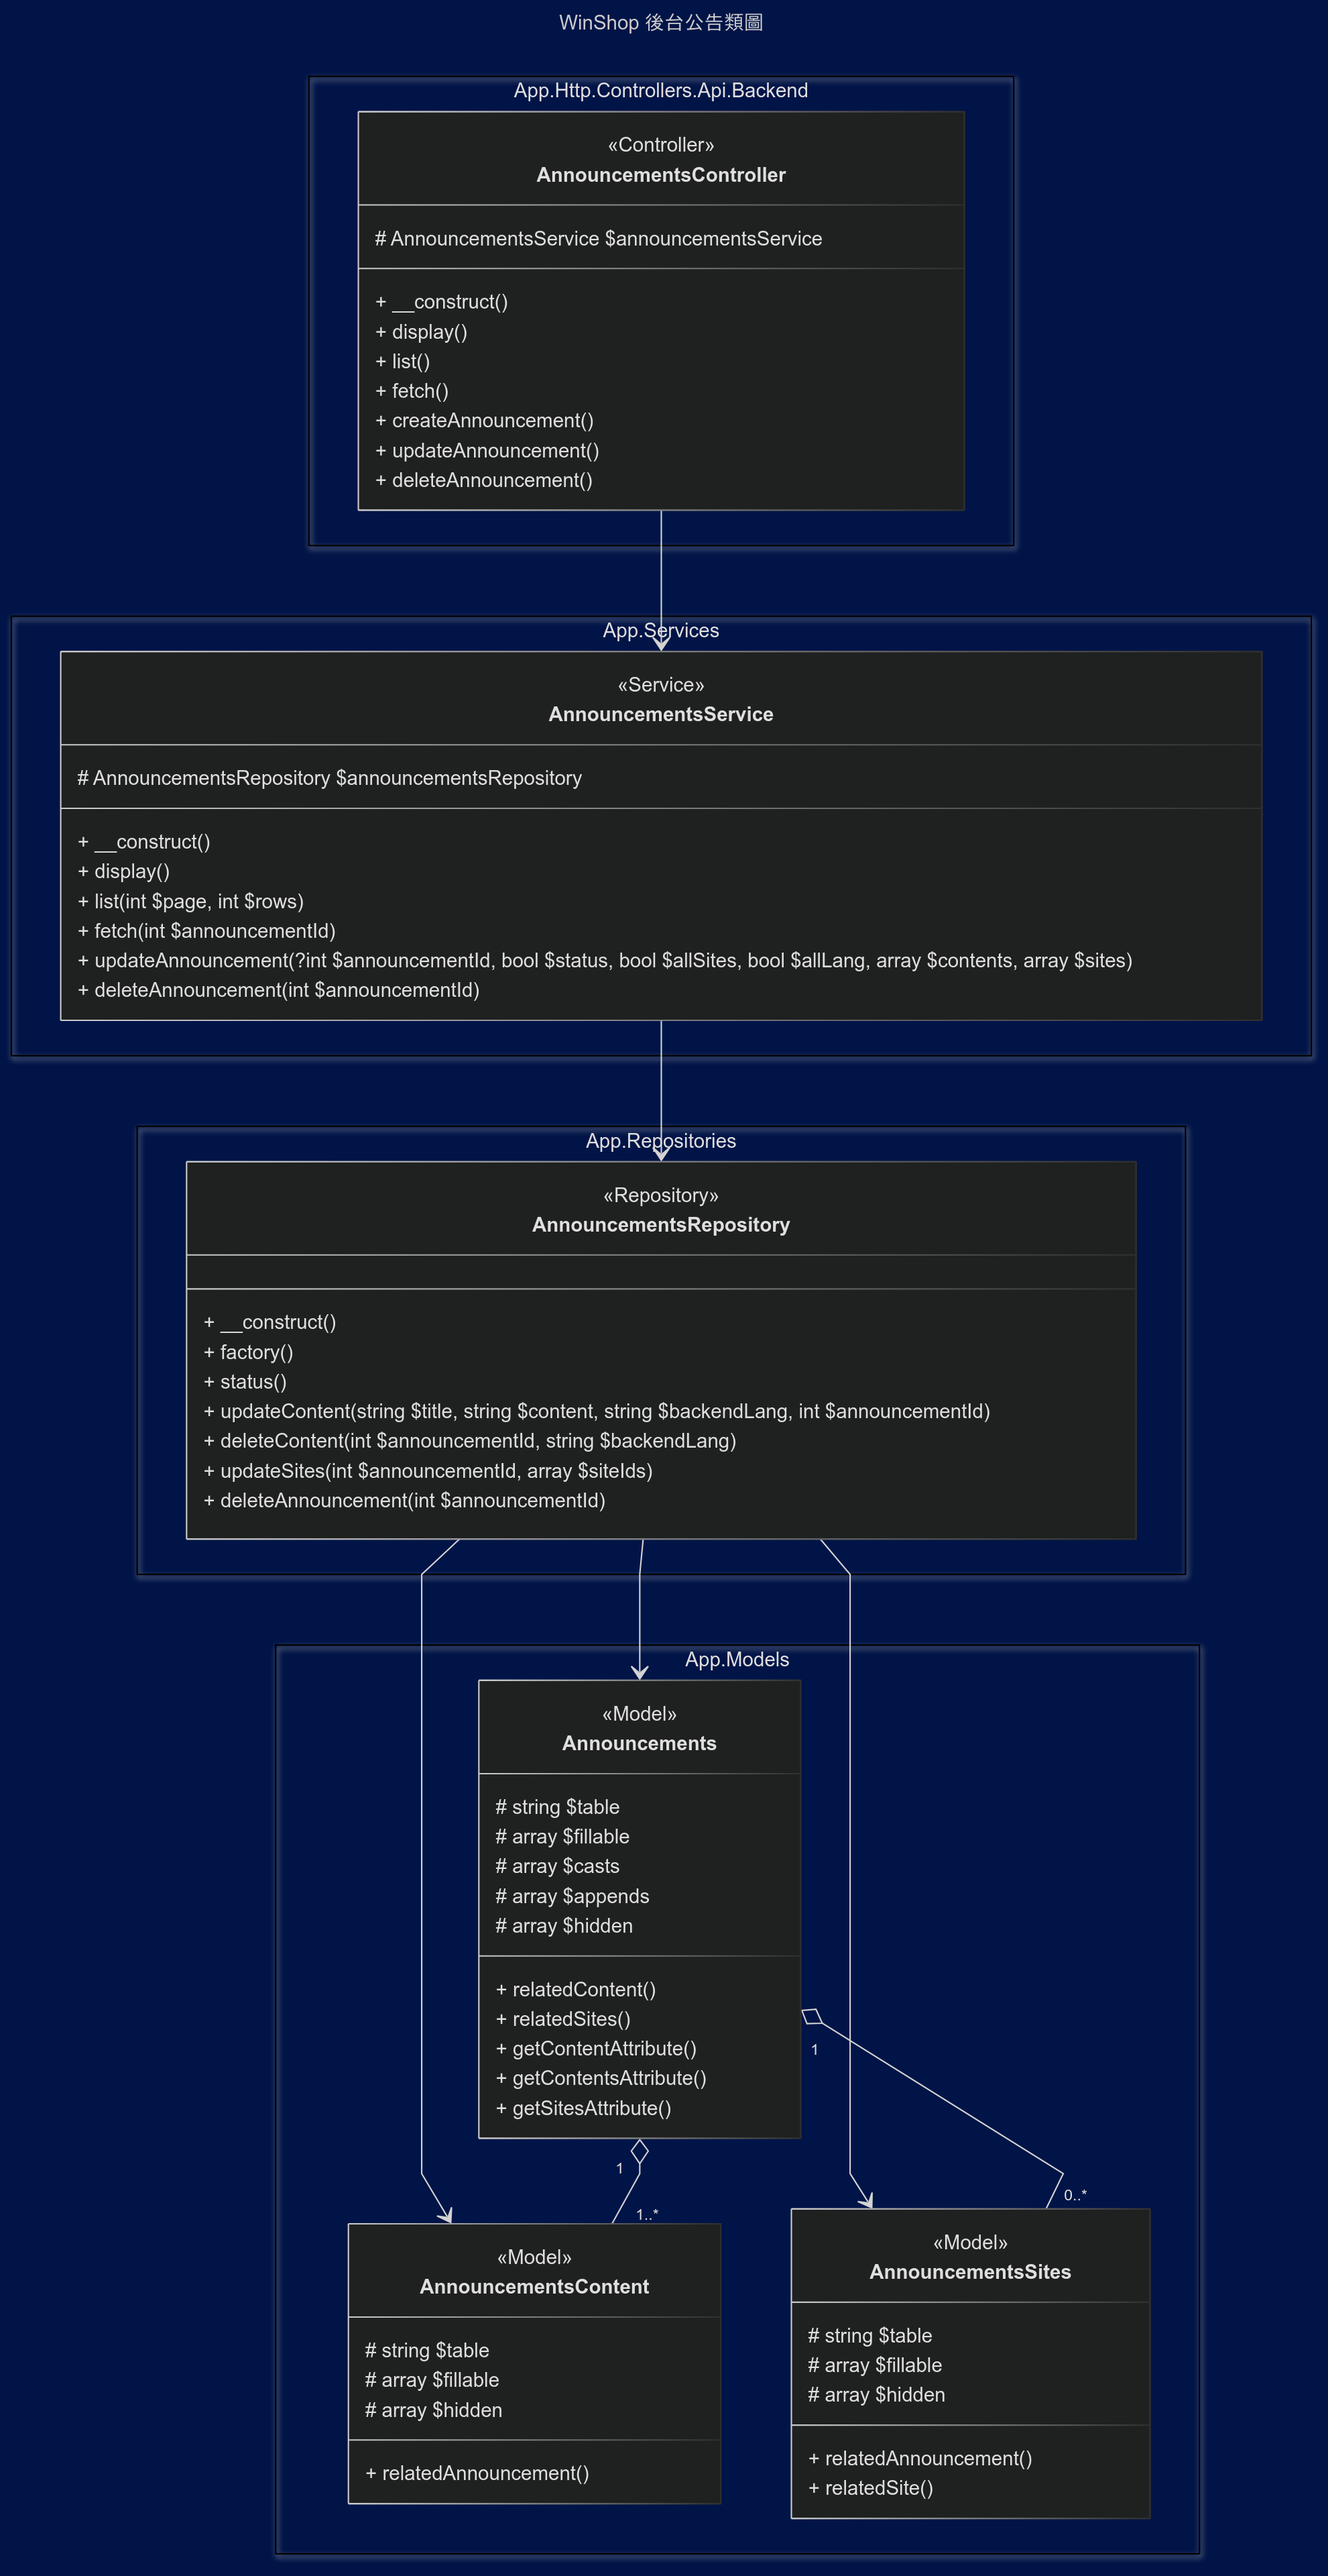
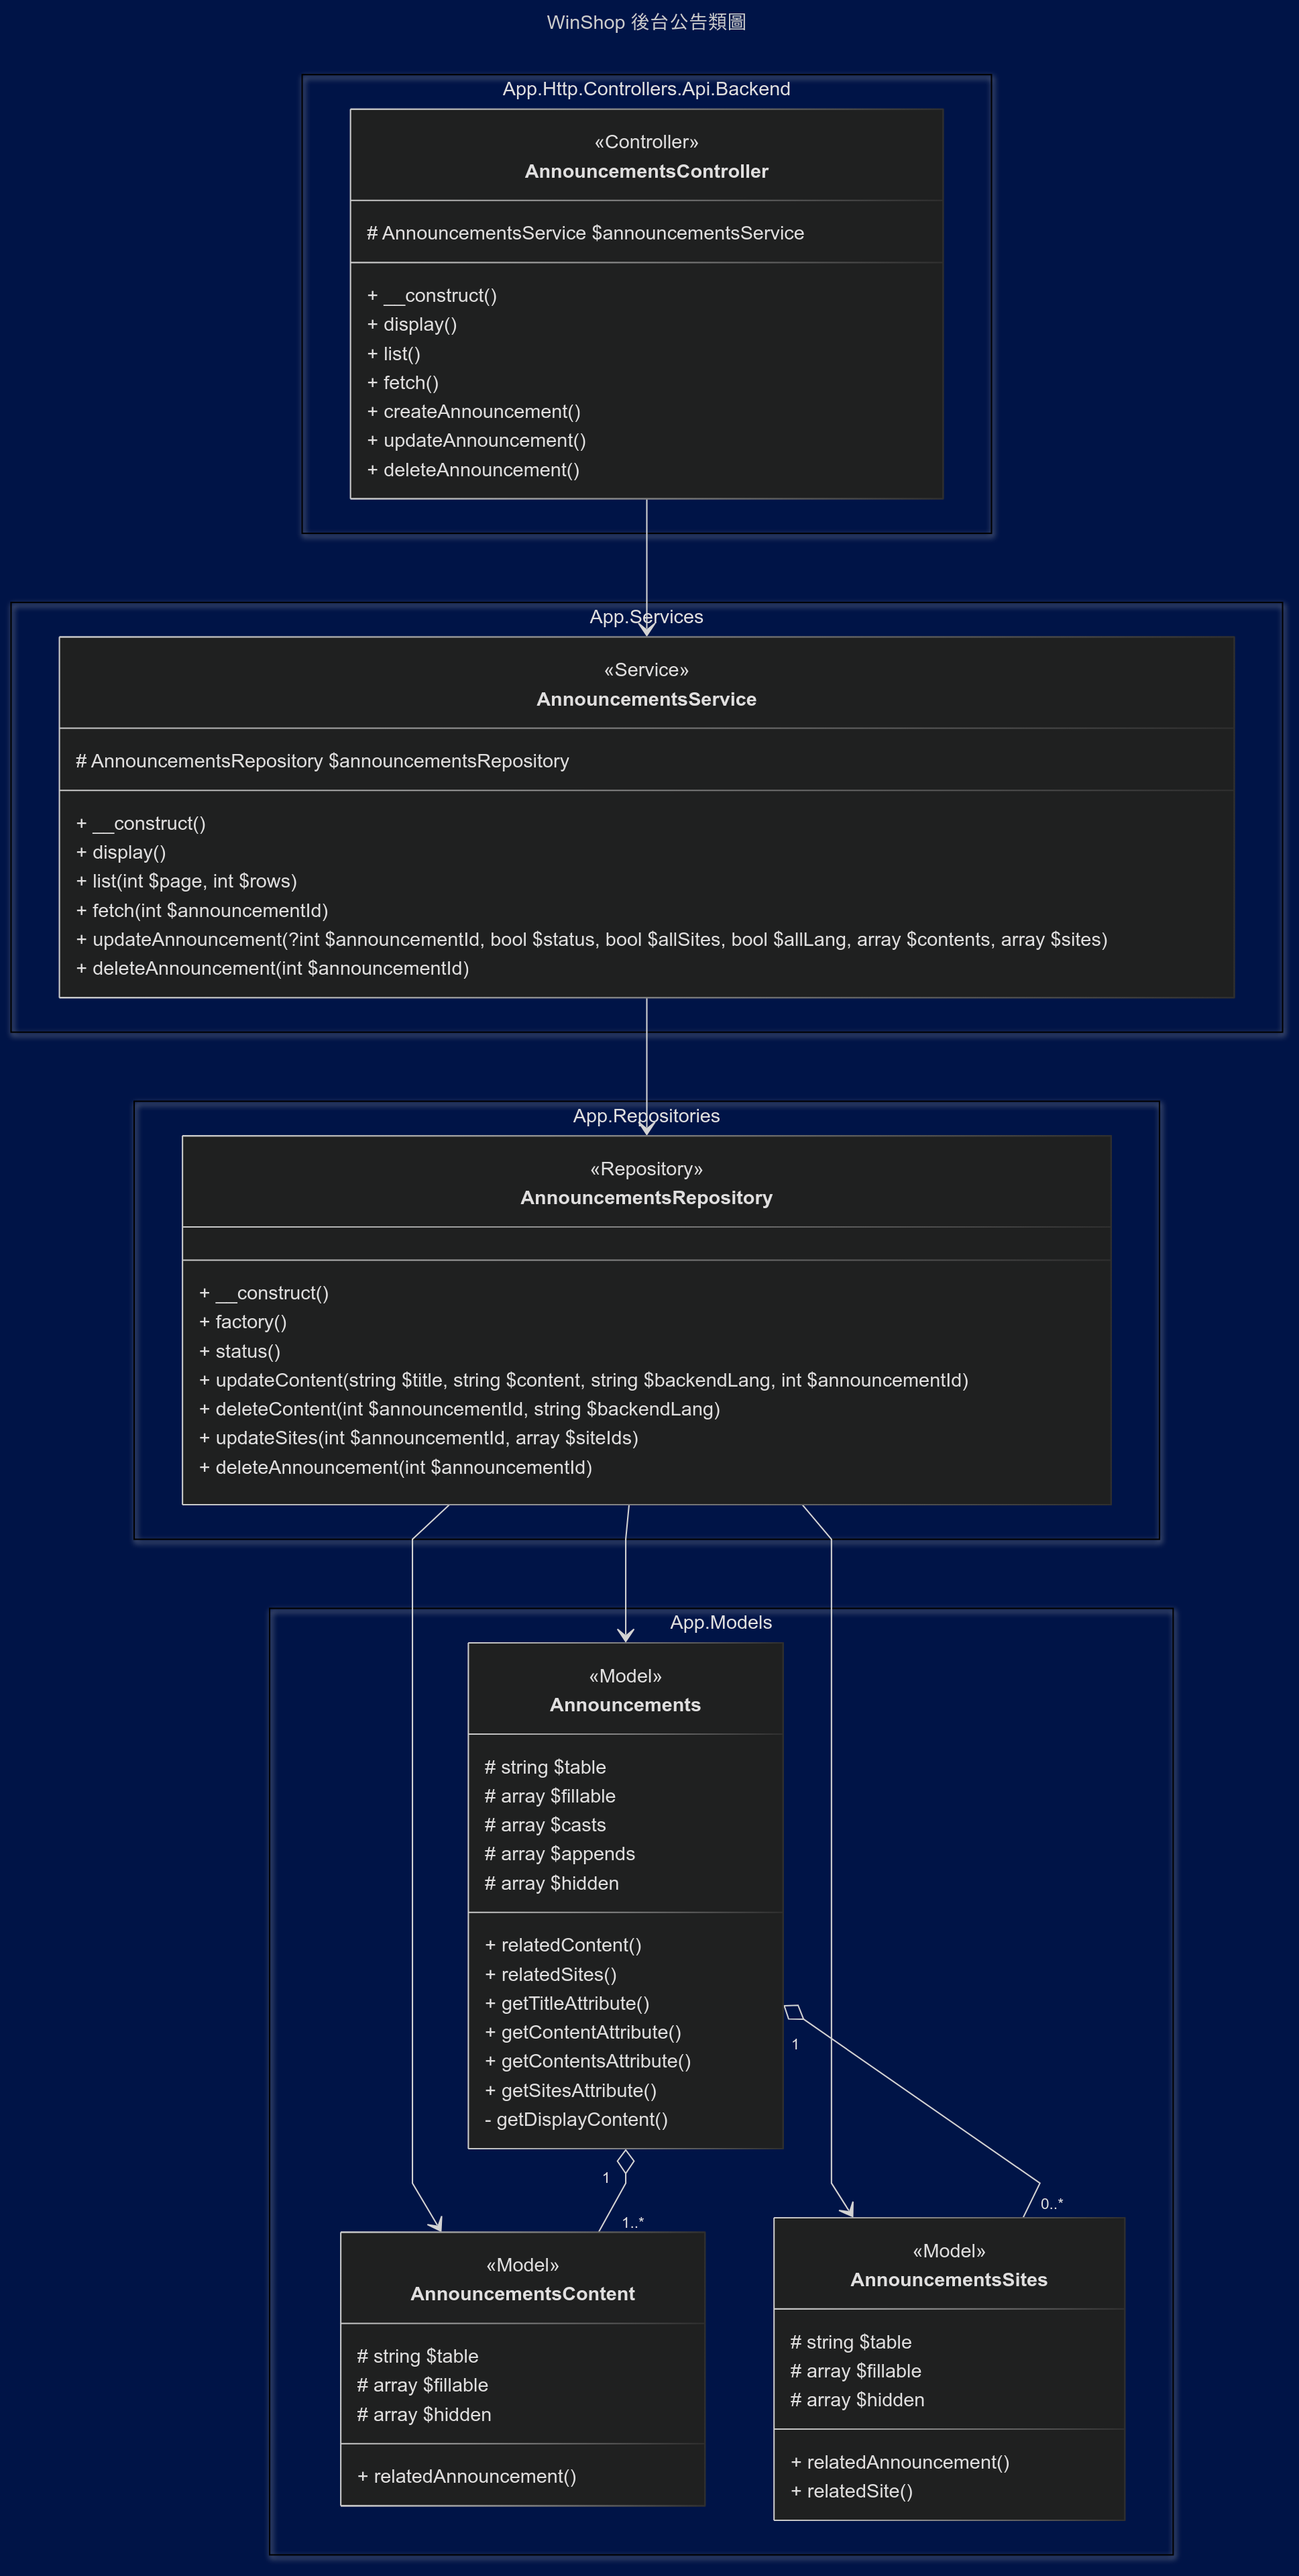
GITBOOK-36: No subject

Changed region(s): [[0.0, 0.0, 0.9912, 0.5], [0.0929, 0.5, 0.8983, 0.9688], [0.5885, 0.8438, 0.8673, 0.9688]]

diff --git a/SUMMARY.md b/SUMMARY.md
@@ -35,9 +35,11 @@
     * [Announcements](hou-duan-xiang-xi-wen-jian/lei-bie-can-kao-wen-jian/announcements/README.md)
       * [relatedContent()](hou-duan-xiang-xi-wen-jian/lei-bie-can-kao-wen-jian/announcements/relatedcontent.md)
       * [relatedSites()](hou-duan-xiang-xi-wen-jian/lei-bie-can-kao-wen-jian/announcements/relatedsites.md)
+      * [getTitleAttribute()](hou-duan-xiang-xi-wen-jian/lei-bie-can-kao-wen-jian/announcements/gettitleattribute.md)
       * [getContentAttribute()](hou-duan-xiang-xi-wen-jian/lei-bie-can-kao-wen-jian/announcements/getcontentattribute.md)
       * [getContentsAttribute()](hou-duan-xiang-xi-wen-jian/lei-bie-can-kao-wen-jian/announcements/getcontentsattribute.md)
       * [getSitesAttribute()](hou-duan-xiang-xi-wen-jian/lei-bie-can-kao-wen-jian/announcements/getsitesattribute.md)
+      * [getDisplayContent()](hou-duan-xiang-xi-wen-jian/lei-bie-can-kao-wen-jian/announcements/getdisplaycontent.md)
     * [AnnouncementsContent](hou-duan-xiang-xi-wen-jian/lei-bie-can-kao-wen-jian/announcementscontent/README.md)
       * [relatedAnnouncement()](hou-duan-xiang-xi-wen-jian/lei-bie-can-kao-wen-jian/announcementscontent/relatedannouncement.md)
     * [AnnouncementsSites](hou-duan-xiang-xi-wen-jian/lei-bie-can-kao-wen-jian/announcementssites/README.md)

diff --git a/hou-duan-xiang-xi-wen-jian/lei-bie-can-kao-wen-jian/announcements/getcontentattribute.md b/hou-duan-xiang-xi-wen-jian/lei-bie-can-kao-wen-jian/announcements/getcontentattribute.md
@@ -1,11 +1,11 @@
 ---
-description: 關聯後台首頁顯示公告區塊內容資料存取器
+description: 關聯後台首頁顯示公告區塊內容資料內文存取器
 ---
 
 # getContentAttribute()
 
 ```php
-public getContentAttribute(): DBCollection
+內文public getContentAttribute(): string
 ```
 
 #### Parameters
@@ -14,5 +14,4 @@ public getContentAttribute(): DBCollection
 
 #### **Return Value**
 
-<table><thead><tr><th width="362">type</th><th>comment</th></tr></thead><tbody><tr><td>array</td><td>公告區塊內容<br>{ title, content }</td></tr></tbody></table>
-
+<table><thead><tr><th width="362">type</th><th>comment</th></tr></thead><tbody><tr><td>string</td><td>公告區塊內容內文</td></tr></tbody></table>

diff --git a/hou-duan-xiang-xi-wen-jian/lei-bie-can-kao-wen-jian/announcements/getdisplaycontent.md b/hou-duan-xiang-xi-wen-jian/lei-bie-can-kao-wen-jian/announcements/getdisplaycontent.md
@@ -1,0 +1,18 @@
+---
+description: 取得首頁顯示公告區塊內容資料幫助方法
+---
+
+# getDisplayContent()
+
+```php
+private function getDisplayContent(): Announcements_content
+```
+
+#### Parameters
+
+無
+
+#### **Return Value**
+
+<table><thead><tr><th width="362">type</th><th>comment</th></tr></thead><tbody><tr><td>App\Models\Announcements_content</td><td>公告區塊內容關聯模組資料</td></tr></tbody></table>
+

diff --git a/hou-duan-xiang-xi-wen-jian/lei-bie-can-kao-wen-jian/announcements/gettitleattribute.md b/hou-duan-xiang-xi-wen-jian/lei-bie-can-kao-wen-jian/announcements/gettitleattribute.md
@@ -1,0 +1,17 @@
+---
+description: 關聯後台首頁顯示公告區塊內容資料標題存取器
+---
+
+# getTitleAttribute()
+
+```php
+public getTitleAttribute(): string
+```
+
+#### Parameters
+
+無
+
+#### **Return Value**
+
+<table><thead><tr><th width="362">type</th><th>comment</th></tr></thead><tbody><tr><td>string</td><td>公告區塊內容標題</td></tr></tbody></table>

diff --git a/hou-duan-xiang-xi-wen-jian/xian-shi-guan-li-api-lei-tu.md b/hou-duan-xiang-xi-wen-jian/xian-shi-guan-li-api-lei-tu.md
@@ -64,9 +64,11 @@ classDiagram
             # array $hidden
             + relatedContent()
             + relatedSites()
+            + getTitleAttribute()
             + getContentAttribute()
             + getContentsAttribute()
             + getSitesAttribute()
+            - getDisplayContent()
         }
         class AnnouncementsContent {
             <<Model>>

diff --git a/hou-duan-xiang-xi-wen-jian/lei-bie-can-kao-wen-jian/announcements/README.md b/hou-duan-xiang-xi-wen-jian/lei-bie-can-kao-wen-jian/announcements/README.md
@@ -56,6 +56,7 @@ protected array $hidden = [
 
 * [relatedContent()](relatedcontent.md)
 * [relatedSites()](relatedsites.md)
+* [getTitleAttribute()](gettitleattribute.md)
 * [getContentAttribute()](getcontentattribute.md)
 * [getContentsAttribute()](getcontentsattribute.md)
 * [getSitesAttribute()](getsitesattribute.md)
